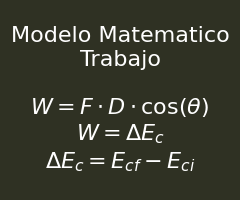
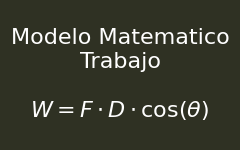
formulas

diff --git a/main.py b/main.py
@@ -3,7 +3,7 @@ from tkinter import messagebox as msg
 import customtkinter as ctk
 import time
 import math
-from PIL import ImageGrab
+from PIL import ImageGrab, Image, ImageTk
 nRes = [1200, 800]
 coeficiente = 0
 # Dimensiones (ojo, no son coordenadas, es lo que miden los espacios)
@@ -48,10 +48,48 @@ def screenshot():
     captura.save(f'captura_{contador}.png')
     contador += 1
     return
+# -------------------------------------------------------------#
+#
+# -------------------------------------------------------------#
+
+formulas = []
+
+formulas.append(Image.open("latex_formula.png"))
+formulas.append(Image.open("latex_formula_1.png"))
+formulas.append(Image.open("latex_formula_2.png"))
+formulas.append(Image.open("latex_formula_3.png"))
+formulas.append(Image.open("latex_formula_4.png"))
+
+imagenes = [ImageTk.PhotoImage(formula) for formula in formulas]
+
+label_imagen = []
+for imagen in imagenes:
+    label = tk.Label(win, image=imagen, borderwidth=0)
+    label_imagen.append(label)
+
+show_formulas_var = tk.IntVar()
+
+def formulas():
+    if show_formulas_var.get() == 1:    
+        choice = selectVar.get()
+        if choice == 'FDA':
+            label_imagen[0].place(x=0,y=300)
+            label_imagen[1].place_forget()
+            label_imagen[2].place_forget()
+        elif choice == 'MV':
+            label_imagen[1].place(x=0,y=300)
+            label_imagen[0].place_forget()
+            label_imagen[2].place_forget() 
+        elif choice == 'VEc':
+            label_imagen[2].place(x=0,y=300)
+            label_imagen[1].place_forget()
+            label_imagen[0].place_forget()
+    else:
+        for label in label_imagen:
+            label.place_forget()    
 
 
-def formulas(*args):
-    return
+
 def toggleTheme(): #Not work
     theme = win._get_appearance_mode()
     print(theme)
@@ -199,6 +237,7 @@ def calcInv(desplazamiento):
         msg.showerror(
                 'Valores incompletos', 'Porfavor ingresar todos los valores solicitados')
     return
+
 # -------------------------------------------------------------#
 # Funciones Parametros
 # -------------------------------------------------------------#
@@ -300,7 +339,6 @@ def calc():
     valores = [f, d, aG, aR, m, v, vi, vf]
     parametros = [rType, rNum, dire, movimiento, velocidad]
     return valores, parametros
-
 
 def refreshPmt(*args):
     choice = selectVar.get()
@@ -439,19 +477,21 @@ labelVf = ctk.CTkLabel(framePmt, text='Velocidad Final (m/s²)',
 # -------------------------------------------------------------#
 labelTitleTyEc = ctk.CTkLabel(frameMenuCalc, text='¿Que desea calcular?', 
                               text_color='white', fg_color='#2f3123')
-
 selectVar = tk.StringVar()
 toggleManual = tk.IntVar()
 checkRoce = tk.IntVar(value=0)
 rbtn1 = ctk.CTkRadioButton(
-    frameMenuCalc, text='Calcular Trabajo : ', value='FDA', variable=selectVar)
+    frameMenuCalc, text='Calcular Trabajo : ', value='FDA', variable=selectVar, command=formulas)
 rbtn2 = ctk.CTkRadioButton(
-    frameMenuCalc, text='Calcular Energia Cinetica: ', value='MV', variable=selectVar)
+    frameMenuCalc, text='Calcular Energia Cinetica: ', value='MV', variable=selectVar, command=formulas)
 rbtn3 = ctk.CTkRadioButton(
-    frameMenuCalc, text='Variacion de energia: ', value='VEc', variable=selectVar)
+    frameMenuCalc, text='Variacion de energia: ', value='VEc', variable=selectVar, command=formulas)
 rbtn4 = ctk.CTkRadioButton(
     frameMenuCalc, text='Desplazamiento manual',variable=selectVar,value='Manual')
-rbtn5 = ctk.CTkSwitch(frameMenuCalc,text='Implementar Roce', variable=checkRoce)
+rbtn5 = ctk.CTkSwitch(
+    frameMenuCalc,text='Implementar Roce', variable=checkRoce)
+rbtn6 = ctk.CTkSwitch(
+    frameMenuCalc, text="Modelo Matematico", variable=show_formulas_var, command=formulas)
 labelTitleC.place(relx=0.5, anchor='center', y=50)
 labelTitleTyEc.place(relx=0.5, anchor='center', y=50)
 rbtn1.place(x=30, y=100)
@@ -459,6 +499,7 @@ rbtn2.place(x=30, y=140)
 rbtn3.place(x=30, y=180)
 rbtn4.place(x=30, y=220)
 rbtn5.place(x=30, y=260)
+rbtn6.place(x=30, y=300)
 selectVar.trace('w', refreshPmt)
 selectVar.trace('w', formulas)
 selectVar.trace('w', toggleMovManual)
